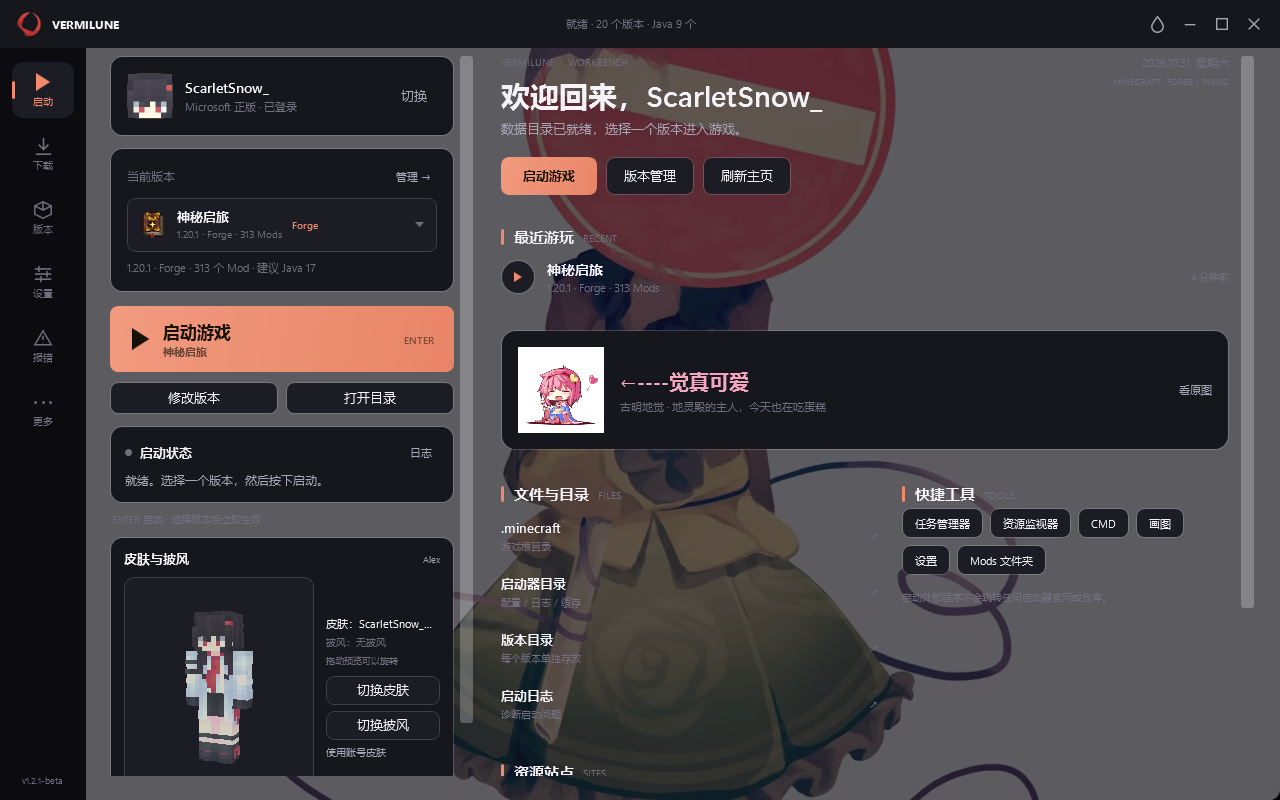
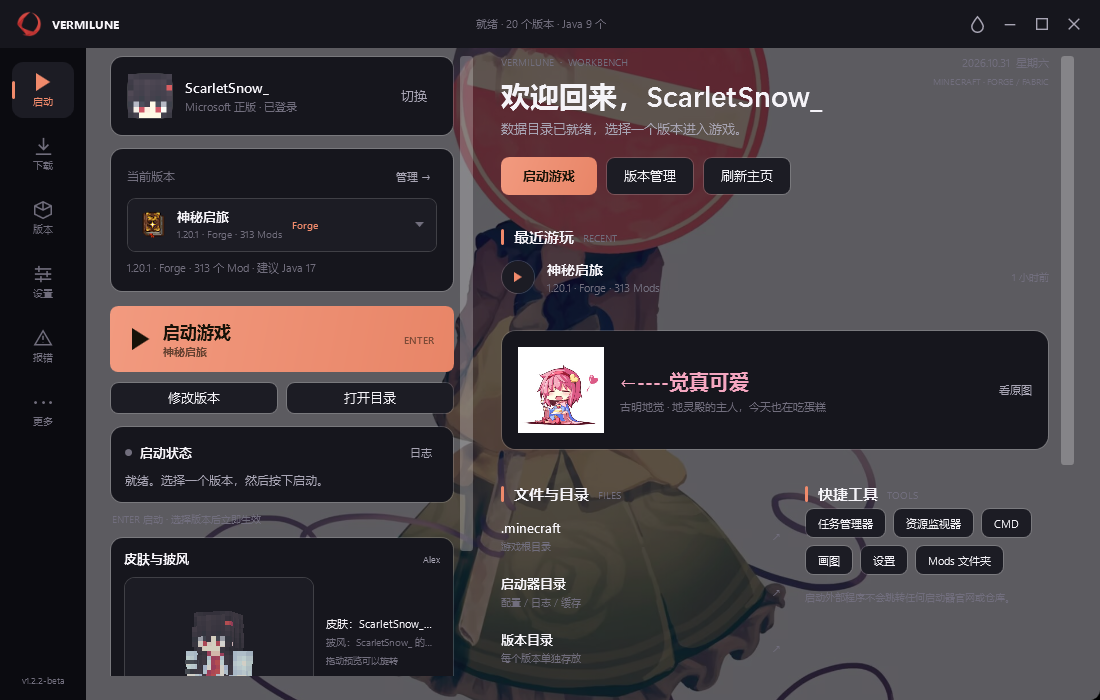
Bump version to 1.2.2-beta

diff --git a/UI/Pages/MorePage.xaml b/UI/Pages/MorePage.xaml
@@ -30,7 +30,7 @@
                             <TextBlock Text="Vermilune" FontFamily="{DynamicResource DisplayFont}" FontSize="24" FontWeight="SemiBold" />
                             <TextBlock Text="Minecraft 启动器 · .NET 10 / WPF" FontSize="11.5"
                                        Foreground="{DynamicResource TextMutedBrush}" Margin="0,6,0,0" />
-                            <TextBlock Text="版本 1.2.1-beta" FontSize="10.5" Foreground="{DynamicResource TextMutedBrush}" Margin="0,4,0,0" />
+                            <TextBlock Text="版本 1.2.2-beta" FontSize="10.5" Foreground="{DynamicResource TextMutedBrush}" Margin="0,4,0,0" />
                         </StackPanel>
                         <StackPanel Grid.Column="2" VerticalAlignment="Center">
                             <Button Style="{StaticResource PrimaryButton}" Height="34" Content="打开数据目录" Click="OpenData_Click" />

diff --git a/UI/Pages/SettingsPage.xaml b/UI/Pages/SettingsPage.xaml
@@ -304,7 +304,7 @@
                 <Border Style="{StaticResource Card}" Margin="0,12,0,0">
                     <StackPanel>
                         <TextBlock Text="关于 Vermilune" Style="{StaticResource SectionHeader}" />
-                        <TextBlock Text="版本 1.2.1-beta  ·  Minecraft 启动器  ·  .NET 10 / WPF"
+                        <TextBlock Text="版本 1.2.2-beta  ·  Minecraft 启动器  ·  .NET 10 / WPF"
                                    Style="{StaticResource Hint}" Margin="0,7,0,0" />
                         <TextBlock Text="启动、下载、Mod 管理与诊断功能都在本地完成。"
                                    Style="{StaticResource Hint}" Margin="0,7,0,0" />

diff --git a/UI/Pages/LaunchPage.xaml b/UI/Pages/LaunchPage.xaml
@@ -521,7 +521,7 @@
                             <ColumnDefinition Width="Auto" />
                         </Grid.ColumnDefinitions>
                         <StackPanel>
-                            <TextBlock Text="Vermilune   ·   v1.2.1-beta" FontSize="10"
+                            <TextBlock Text="Vermilune   ·   v1.2.2-beta" FontSize="10"
                                        Foreground="{DynamicResource TextMutedBrush}" />
                             <TextBlock Text="Minecraft 资源版权归 Mojang Studios 与各 Mod 作者所有" FontSize="10"
                                        Foreground="{DynamicResource TextMutedBrush}" Margin="0,4,0,0" />

diff --git a/MainWindow.xaml b/MainWindow.xaml
@@ -161,7 +161,7 @@
                             </StackPanel>
 
                             <StackPanel Grid.Row="1" Margin="0,0,0,14" HorizontalAlignment="Center">
-                                <TextBlock x:Name="RailVersion" Text="v1.2.1-beta" FontSize="9"
+                                <TextBlock x:Name="RailVersion" Text="v1.2.2-beta" FontSize="9"
                                            Foreground="{DynamicResource TextMutedBrush}" HorizontalAlignment="Center" />
                             </StackPanel>
                         </Grid>

diff --git a/MainWindow.xaml.cs b/MainWindow.xaml.cs
@@ -62,7 +62,7 @@ public partial class MainWindow : Window
         BgOpacitySlider.Value = s.BackgroundImageOpacity * 100;
         _updatingSliders = false;
         OpacityValue.Text = $"{s.UiOpacity * 100:0}%";
-        RailVersion.Text = "v1.2.1-beta";
+        RailVersion.Text = "v1.2.2-beta";
 
         LauncherApp.I.SettingsChanged += OnSettingsChanged;
         LauncherApp.I.VersionsChanged += OnVersionsChanged;

diff --git a/UI/Pages/MorePage.xaml.cs b/UI/Pages/MorePage.xaml.cs
@@ -21,7 +21,7 @@ public partial class MorePage : UserControl, IPage
     {
         try
         {
-            EnvText.Text = $"Vermilune 1.2.1-beta\n.NET {Environment.Version}\n{Environment.OSVersion}\n数据目录：{AppPaths.DataDir}";
+            EnvText.Text = $"Vermilune 1.2.2-beta\n.NET {Environment.Version}\n{Environment.OSVersion}\n数据目录：{AppPaths.DataDir}";
         }
         catch { }
     }

diff --git a/Core/VersionModels.cs b/Core/VersionModels.cs
@@ -169,7 +169,7 @@ public sealed class LaunchOptions
     public string ExtraJvmArgs { get; init; } = "";
     public string ExtraGameArgs { get; init; } = "";
     public string LauncherName { get; init; } = "Vermilune";
-    public string LauncherVersion { get; init; } = "1.2.1-beta";
+    public string LauncherVersion { get; init; } = "1.2.2-beta";
 }
 
 public static class RuleEvaluator

diff --git a/UI/Pages/LaunchPage.xaml.cs b/UI/Pages/LaunchPage.xaml.cs
@@ -500,7 +500,7 @@ public partial class LaunchPage : UserControl, IPage, INotifyPropertyChanged
             ExtraJvmArgs = instance.JvmArgs,
             ExtraGameArgs = instance.GameArgs,
             LauncherName = "Vermilune",
-            LauncherVersion = "1.2.1-beta"
+            LauncherVersion = "1.2.2-beta"
         };
 
         _cts?.Dispose();

diff --git a/README.md b/README.md
@@ -1,6 +1,6 @@
 # Vermilune
 
-一个使用 **.NET 10 + WPF** 编写的 Windows Minecraft 启动器，当前版本 **v1.2.1-beta**。
+一个使用 **.NET 10 + WPF** 编写的 Windows Minecraft 启动器，当前版本 **v1.2.2-beta**。
 
 界面、版本管理、下载、登录与皮肤预览均在本地完成。
 
